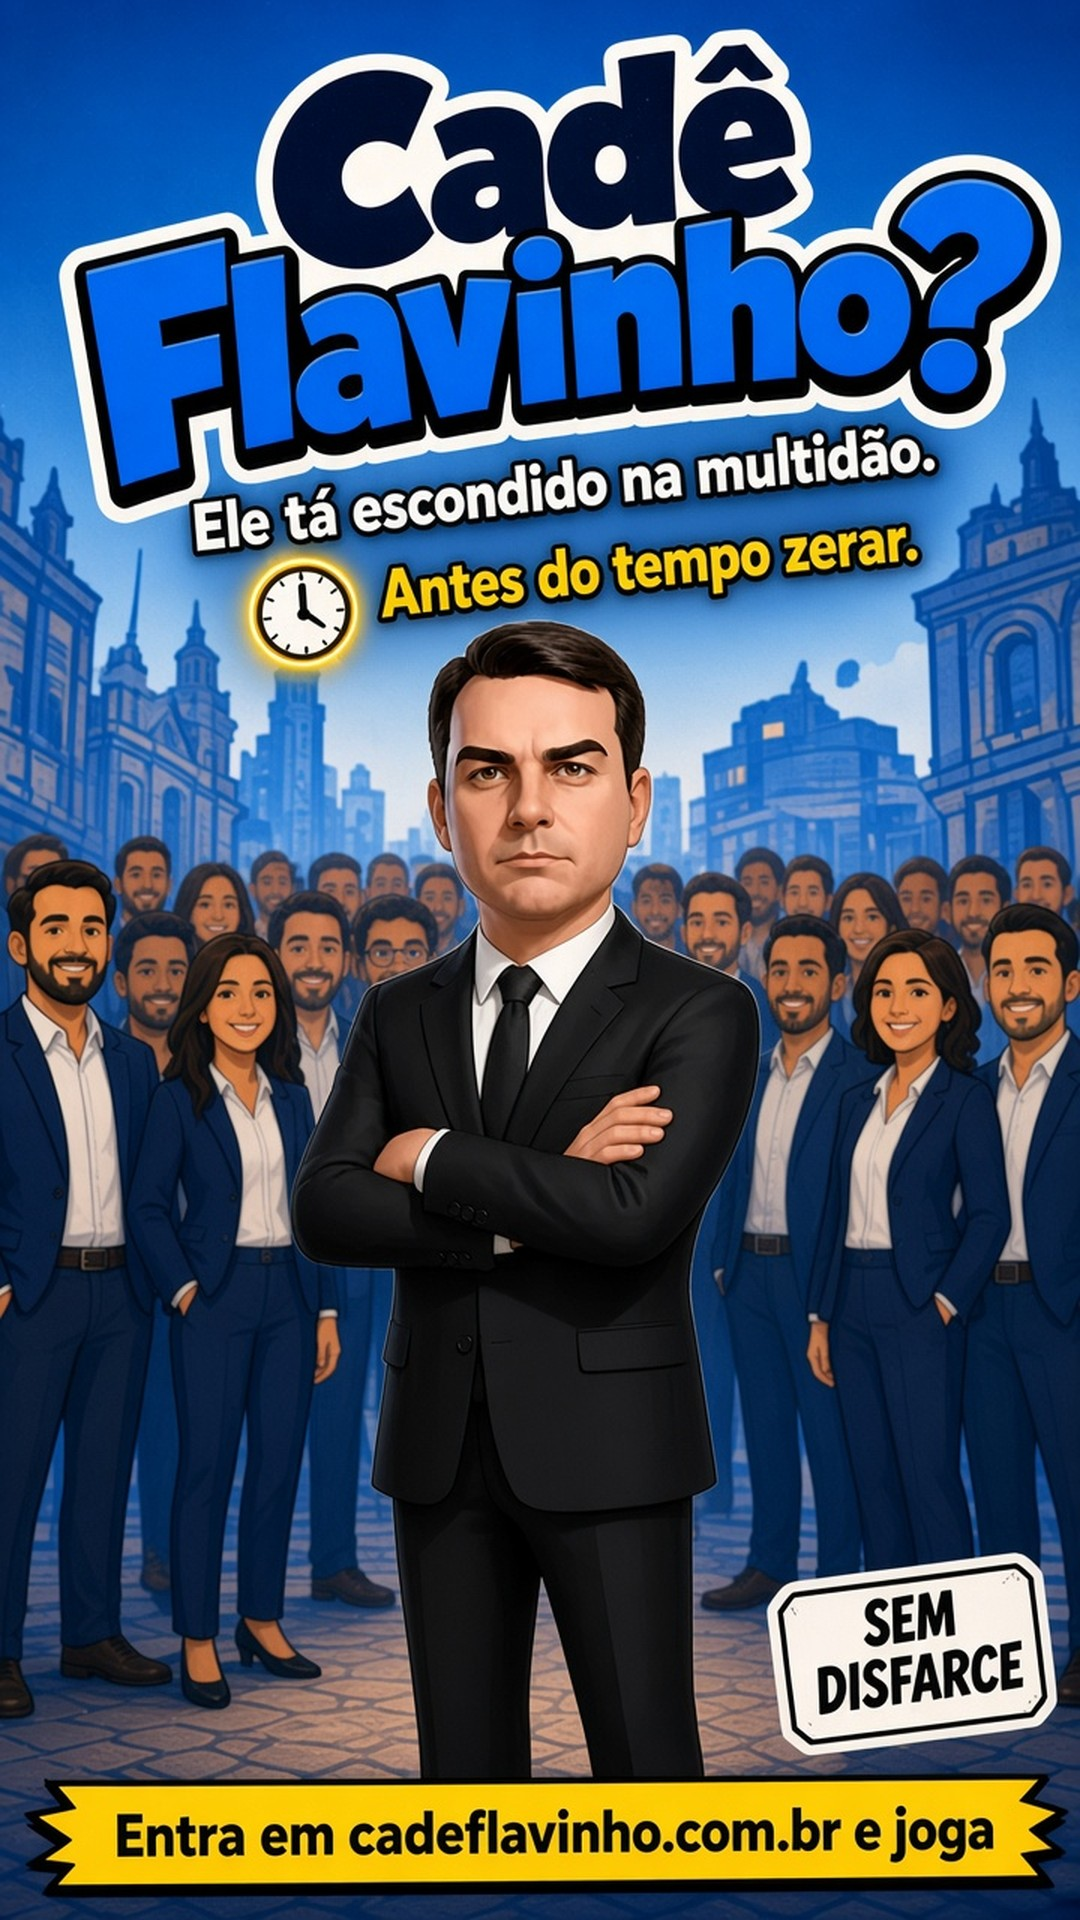
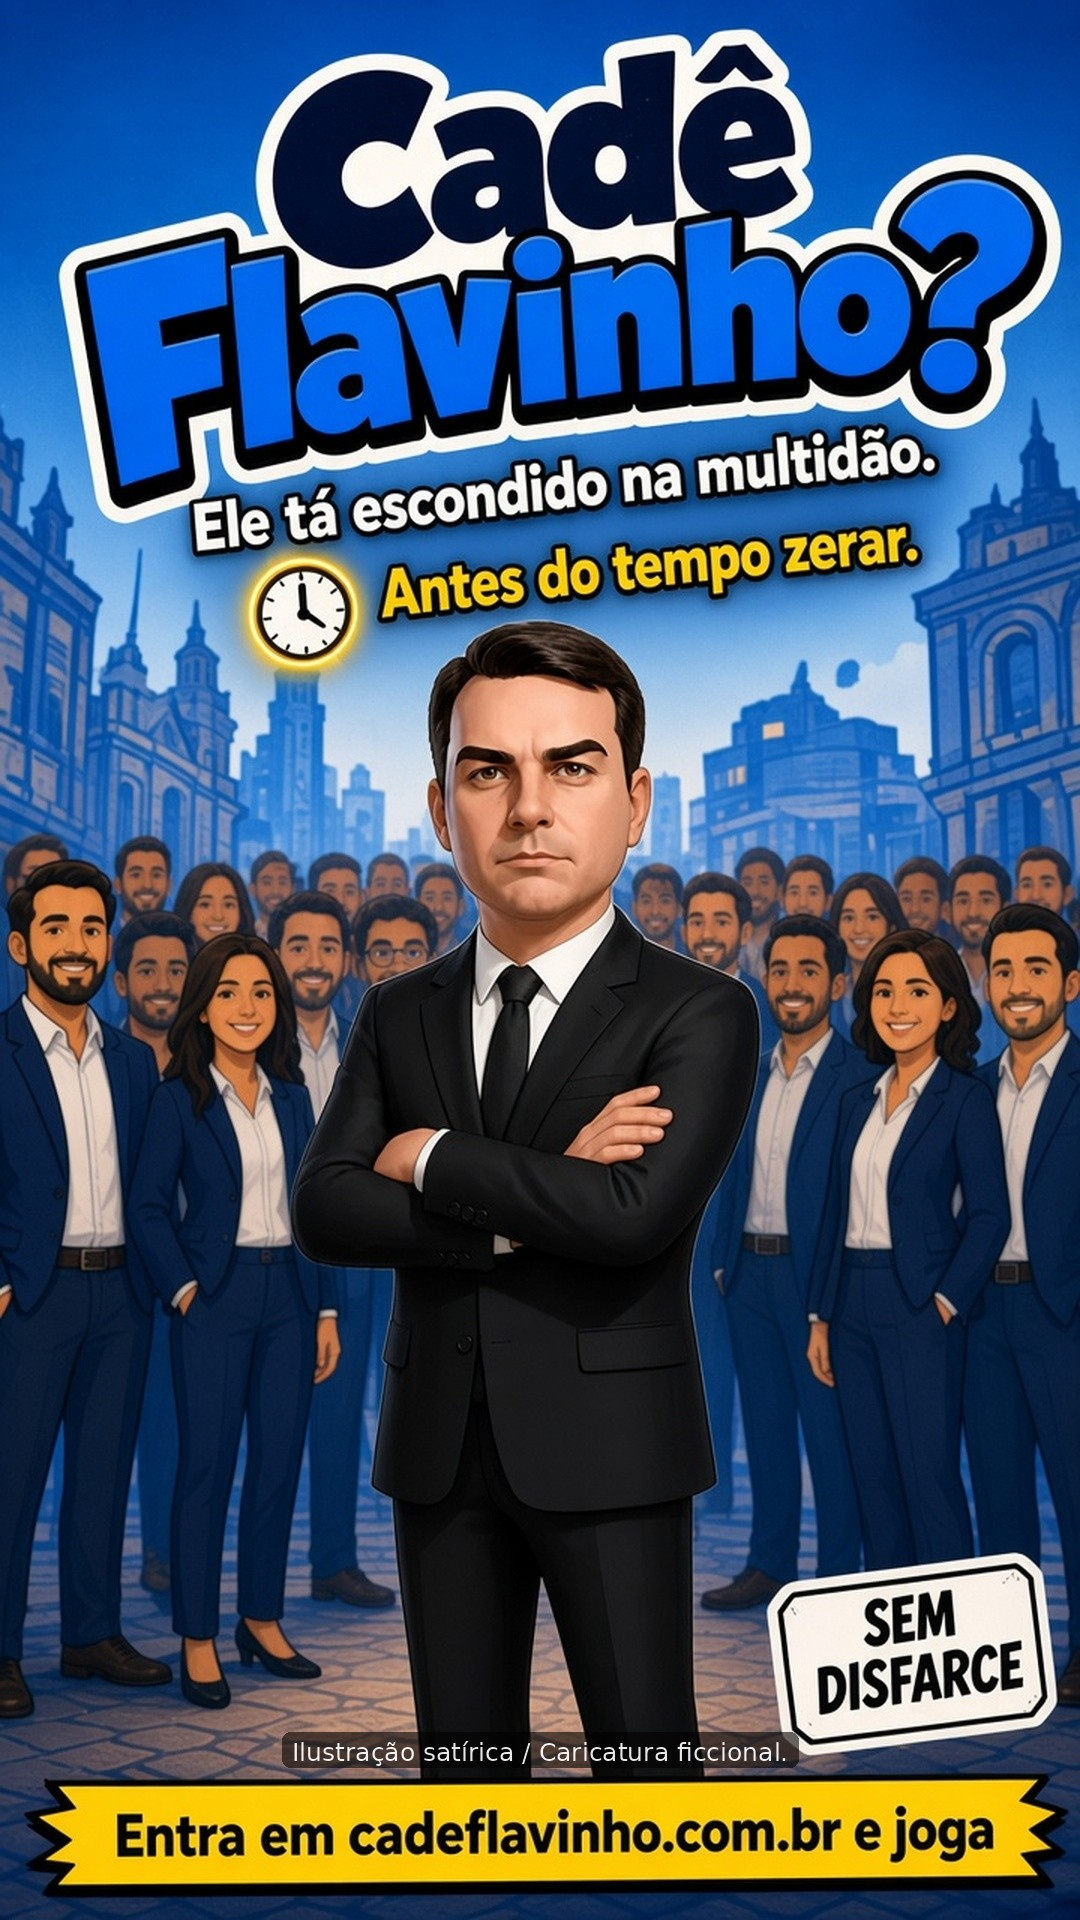
Reforça disclaimers legais sugeridos para o site
Texto do PIX foca em infraestrutura; aviso de sátira
humorística cita fontes públicas; artes ganham a linha
de ilustração satírica / caricatura ficcional.

Changed region(s): [[0.2444, 0.875, 0.4583, 0.9375], [0.6417, 0.875, 0.7333, 0.9375], [0.4889, 0.875, 0.5806, 0.9375]]

diff --git a/src/components/game/LegalNotice.tsx b/src/components/game/LegalNotice.tsx
@@ -1,0 +1,57 @@
+const PRESS_LINKS = [
+  {
+    label: "Agência Brasil",
+    href: "https://agenciabrasil.ebc.com.br/politica/noticia/2026-10/policia-federal-cancela-passaportes-de-flavio-bolsonaro",
+  },
+  {
+    label: "G1",
+    href: "https://g1.globo.com/mundo/noticia/2026/10/27/suspeita-de-fuga-de-flavio-bolsonaro-repercute-na-imprensa-internacional.ghtml",
+  },
+] as const;
+
+/** Rodapé jurídico: sátira / animus jocandi + fontes de amplo conhecimento público. */
+export function LegalNotice() {
+  return (
+    <footer className="relative z-10 mx-auto max-w-3xl border-t border-[var(--ink)]/10 px-4 py-6 text-left text-xs leading-relaxed text-[var(--muted)] sm:text-center">
+      <p className="font-bold uppercase tracking-[0.14em] text-[var(--ink)]/70">
+        Aviso de natureza artística e sátira humorística
+      </p>
+      <p className="mt-2">
+        Este site é uma obra ficcional, lúdica e de sátira política/social,
+        baseada exclusivamente em fatos e suspeitas de amplo conhecimento
+        público, amplamente divulgados pela imprensa nacional e internacional (
+        {PRESS_LINKS.map((link, i) => (
+          <span key={link.href}>
+            {i > 0 ? "; " : null}
+            <a
+              href={link.href}
+              target="_blank"
+              rel="noopener noreferrer"
+              className="underline decoration-[var(--ink)]/25 underline-offset-2 hover:text-[var(--ink)]"
+            >
+              {link.label}
+            </a>
+          </span>
+        ))}
+        ).
+      </p>
+      <p className="mt-2">
+        Não constitui veículo de notícia oficial, denúncia jurídica, biografia,
+        campanha eleitoral ou manifestação partidária. O conteúdo está
+        estritamente amparado pelo direito constitucional à paródia, à liberdade
+        de expressão e à atividade artística (Art. 5º, IX, da Constituição
+        Federal). Este projeto não possui a intenção ou o escopo de ofender a
+        honra objetiva ou subjetiva de qualquer indivíduo retratado em formato
+        de caricatura.
+      </p>
+      <p className="mt-2">
+        Qualquer PIX é contribuição voluntária exclusiva à infraestrutura
+        técnica e aos custos operacionais do desenvolvedor — sem vínculo com
+        imagem de terceiros, partidos ou campanhas. Jogar é grátis.
+      </p>
+      <p className="mt-2 text-[10px] text-[var(--muted)]/80">
+        Ilustração satírica / caricatura ficcional.
+      </p>
+    </footer>
+  );
+}

diff --git a/src/components/game/PixPanel.tsx b/src/components/game/PixPanel.tsx
@@ -31,7 +31,7 @@ export function PixPanel({ compact = false }: Props) {
             Apoio voluntário
           </p>
           <p className="mt-1 text-sm text-[var(--muted)]">
-            Só se quiser. Valor livre. Sem obrigação e sem recompensa prometida.
+            Gostou do projeto? O jogo é e sempre será 100% gratuito.
           </p>
         </div>
         <span className="rounded-full bg-[var(--pix)] px-2.5 py-1 text-xs font-bold uppercase tracking-wide text-white">
@@ -39,9 +39,17 @@ export function PixPanel({ compact = false }: Props) {
         </span>
       </div>
 
+      <p className="mt-3 text-sm leading-relaxed text-[var(--ink)]">
+        Se você quiser apoiar a manutenção do servidor e incentivar o trabalho
+        de desenvolvimento de jogos independentes e arte digital no Brasil,
+        aceitamos contribuições voluntárias de qualquer valor via PIX.
+      </p>
+
       <p className="mt-3 rounded-xl border border-[var(--ink)]/10 bg-[var(--sand)] px-3 py-2 text-sm leading-relaxed text-[var(--ink)]">
-        Qualquer valor vai <strong>apenas para o desenvolvedor do jogo</strong>.
-        Não vai para político, partido, candidato nem campanha de ninguém.
+        <strong>Nota importante:</strong> o apoio financeiro destina-se
+        exclusivamente à infraestrutura técnica do site e aos custos
+        operacionais do desenvolvedor. Não possui qualquer vínculo com a imagem
+        de terceiros, partidos, candidatos ou campanhas.
       </p>
 
       <div className="mt-3 rounded-xl bg-[var(--sand)] px-3 py-2">
@@ -66,9 +74,10 @@ export function PixPanel({ compact = false }: Props) {
       </div>
 
       <p className="mt-3 text-[11px] leading-relaxed text-[var(--muted)]">
-        Apoio 100% voluntário entre adultos. Não é doação a instituição, rifa,
-        aposta, vaquinha eleitoral nem financiamento de campanha. O jogo
-        continua inteiro de graça — jogar não exige pagar nada.
+        Contribuição 100% voluntária, valor livre, sem obrigação e sem
+        recompensa prometida. Não é doação a instituição, rifa, aposta,
+        vaquinha eleitoral nem financiamento de campanha. Jogar não exige pagar
+        nada.
       </p>
     </div>
   );

diff --git a/src/components/game/GameApp.tsx b/src/components/game/GameApp.tsx
@@ -5,6 +5,7 @@ import { useEffect, useMemo, useRef, useState } from "react";
 import { Button } from "@/components/ui/Button";
 import { CrowdScene } from "@/components/game/CrowdScene";
 import { Leaderboard } from "@/components/game/Leaderboard";
+import { LegalNotice } from "@/components/game/LegalNotice";
 import { PixModal } from "@/components/game/PixModal";
 import { RankModal } from "@/components/game/RankModal";
 import { ShareBar } from "@/components/game/ShareBar";
@@ -911,12 +912,7 @@ export function GameApp() {
         shareText={rankShareText}
       />
 
-      <footer className="relative z-10 mx-auto max-w-3xl border-t border-[var(--ink)]/10 px-4 py-6 text-center text-xs leading-relaxed text-[var(--muted)]">
-        Sátira / humor. Não é notícia, denúncia, biografia, campanha eleitoral
-        nem afiliação partidária. Qualquer PIX é apoio 100% voluntário e vai
-        apenas ao desenvolvedor do jogo — não vai para político, partido,
-        candidato nem campanha de ninguém. Jogar é grátis.
-      </footer>
+      <LegalNotice />
     </div>
   );
 }
@@ -998,8 +994,9 @@ function Landing({
               : "Seja o primeiro no placar."}
           </p>
           <p className="mt-3 max-w-md text-sm text-[var(--muted)]">
-            Jogo satírico de humor — grátis. Qualquer apoio via PIX é voluntário
-            e vai só ao desenvolvedor, não a político nem campanha.
+            Obra ficcional de sátira humorística — grátis. Qualquer PIX é
+            voluntário e cobre só servidor/custos do desenvolvedor, sem vínculo
+            com imagem de terceiros, partidos ou campanhas.
           </p>
 
           <div className="mt-6">

diff --git a/src/app/layout.tsx b/src/app/layout.tsx
@@ -16,10 +16,10 @@ const body = Manrope({
 
 const SITE_URL = "https://cadeflavinho.com.br";
 const OG_IMAGE = {
-  url: "/og-share.jpg?v=2",
+  url: "/og-share.jpg?v=3",
   width: 1200,
   height: 1200,
-  alt: "Cadê Flavinho? — você consegue achar ele? Joga em cadeflavinho.com.br",
+  alt: "Cadê Flavinho? — ilustração satírica / caricatura ficcional",
 };
 
 export const metadata: Metadata = {

diff --git a/README.md b/README.md
@@ -8,14 +8,15 @@ Site: [cadeflavinho.com.br](https://cadeflavinho.com.br)
 2. Se o mapa fechar, ele ainda está escondido na multidão — com timer e pontos derretendo.
 3. Apoio voluntário via PIX (botão **Apoio voluntário**), valor livre, sem obrigação.
 
-> Humor/sátira. Não é notícia, denúncia, campanha eleitoral nem afiliação política.
-> Qualquer PIX vai apenas ao desenvolvedor do jogo — não a político, partido nem campanha.
+> Obra ficcional de sátira humorística. Não é notícia, denúncia, biografia, campanha eleitoral nem afiliação partidária.
+> Qualquer PIX cobre só infraestrutura/custos do desenvolvedor — sem vínculo com imagem de terceiros, partidos ou campanhas.
+> Ilustração satírica / caricatura ficcional.
 
 ## PIX
 
 Chave: `cadeflavinho@gmail.com`  
-Apoio 100% voluntário ao desenvolvedor. Sem valores predefinidos, sem cobrança por dica.
-O jogo continua inteiro de graça.
+Contribuição voluntária (valor livre) para manutenção do servidor e custos operacionais do desenvolvedor.
+Sem valores predefinidos, sem cobrança por dica. O jogo continua 100% gratuito.
 
 ## Rodar local
 
